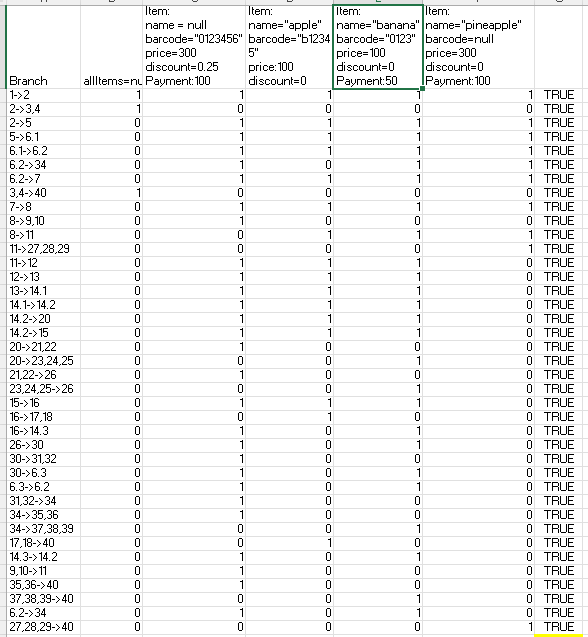
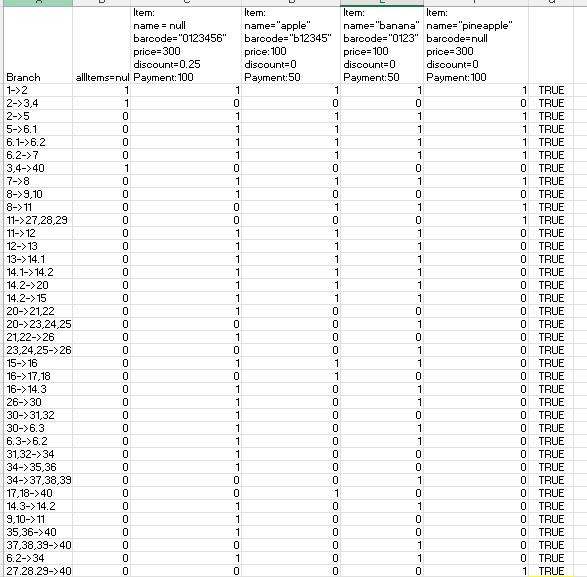
Update every branch

Changed region(s): [[0.0, 0.0, 1.0, 1.0]]

diff --git a/SI_lab2_226005/build/reports/tests/test/classes/SILab2Test.html b/SI_lab2_226005/build/reports/tests/test/classes/SILab2Test.html
@@ -41,7 +41,7 @@
 </td>
 <td>
 <div class="infoBox" id="duration">
-<div class="counter">0.024s</div>
+<div class="counter">0.033s</div>
 <p>duration</p>
 </div>
 </td>
@@ -63,6 +63,9 @@
 <li>
 <a href="#tab0">Tests</a>
 </li>
+<li>
+<a href="#tab1">Standard output</a>
+</li>
 </ul>
 <div id="tab0" class="tab">
 <h2>Tests</h2>
@@ -75,11 +78,22 @@
 </tr>
 </thead>
 <tr>
-<td class="success">testMultipleCondition()</td>
-<td class="success">0.024s</td>
+<td class="success">testEveryBranch()</td>
+<td class="success">0.033s</td>
 <td class="success">passed</td>
 </tr>
 </table>
+</div>
+<div id="tab1" class="tab">
+<h2>Standard output</h2>
+<span class="code">
+<pre>Test allItems == null
+Test name == null, discount &gt; 0, sum &gt; 300, sum &gt;= payment, barcode[0]=='0'
+Testing if barcode has invalid character
+Testing sum &lt; payment and discount != 0
+Testing barcode == null
+</pre>
+</span>
 </div>
 </div>
 <div id="footer">
@@ -89,7 +103,7 @@
 <input id="line-wrapping-toggle" type="checkbox" autocomplete="off"/>
 </label>
 </div>Generated by 
-<a href="http://www.gradle.org">Gradle 8.2</a> at May 21, 2024, 9:06:11 PM</p>
+<a href="http://www.gradle.org">Gradle 8.2</a> at May 21, 2024, 9:34:38 PM</p>
 </div>
 </div>
 </body>

diff --git a/SI_lab2_226005/build/reports/tests/test/index.html b/SI_lab2_226005/build/reports/tests/test/index.html
@@ -38,7 +38,7 @@
 </td>
 <td>
 <div class="infoBox" id="duration">
-<div class="counter">0.024s</div>
+<div class="counter">0.033s</div>
 <p>duration</p>
 </div>
 </td>
@@ -85,7 +85,7 @@
 <td>1</td>
 <td>0</td>
 <td>0</td>
-<td>0.024s</td>
+<td>0.033s</td>
 <td class="success">100%</td>
 </tr>
 </tbody>
@@ -112,7 +112,7 @@
 <td>1</td>
 <td>0</td>
 <td>0</td>
-<td>0.024s</td>
+<td>0.033s</td>
 <td class="success">100%</td>
 </tr>
 </tbody>
@@ -126,7 +126,7 @@
 <input id="line-wrapping-toggle" type="checkbox" autocomplete="off"/>
 </label>
 </div>Generated by 
-<a href="http://www.gradle.org">Gradle 8.2</a> at May 21, 2024, 9:06:11 PM</p>
+<a href="http://www.gradle.org">Gradle 8.2</a> at May 21, 2024, 9:34:38 PM</p>
 </div>
 </div>
 </body>

diff --git a/SI_lab2_226005/build/reports/tests/test/packages/default-package.html b/SI_lab2_226005/build/reports/tests/test/packages/default-package.html
@@ -40,7 +40,7 @@
 </td>
 <td>
 <div class="infoBox" id="duration">
-<div class="counter">0.024s</div>
+<div class="counter">0.033s</div>
 <p>duration</p>
 </div>
 </td>
@@ -83,7 +83,7 @@
 <td>1</td>
 <td>0</td>
 <td>0</td>
-<td>0.024s</td>
+<td>0.033s</td>
 <td class="success">100%</td>
 </tr>
 </table>
@@ -96,7 +96,7 @@
 <input id="line-wrapping-toggle" type="checkbox" autocomplete="off"/>
 </label>
 </div>Generated by 
-<a href="http://www.gradle.org">Gradle 8.2</a> at May 21, 2024, 9:06:11 PM</p>
+<a href="http://www.gradle.org">Gradle 8.2</a> at May 21, 2024, 9:34:38 PM</p>
 </div>
 </div>
 </body>
